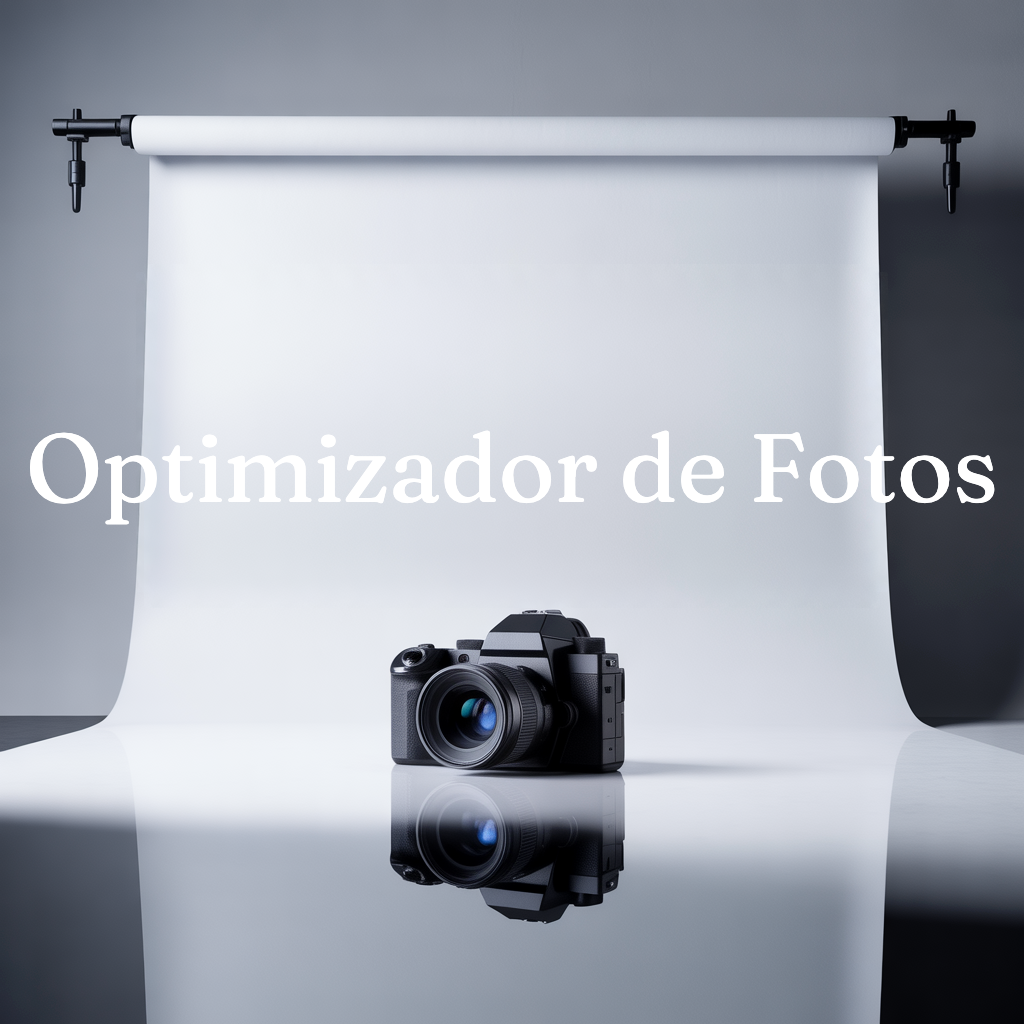
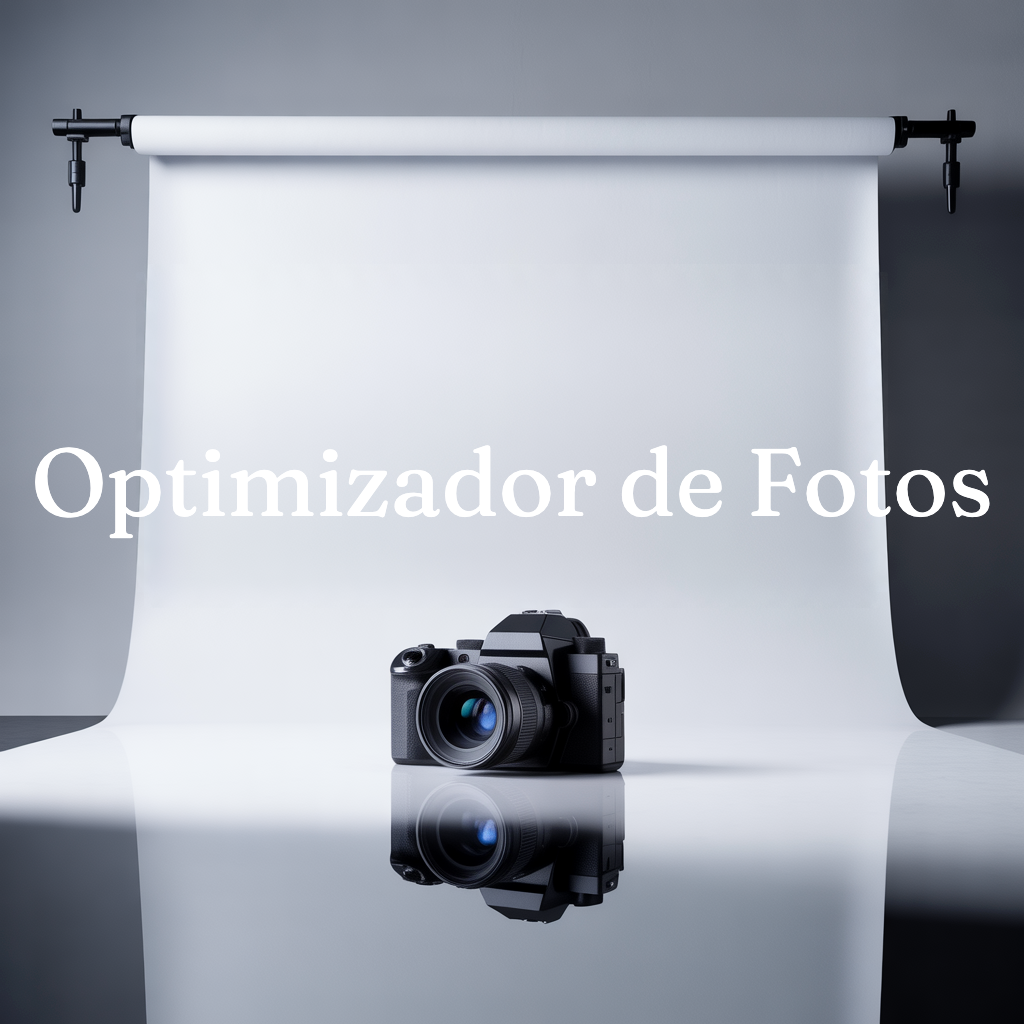
prompt colection

Changed region(s): [[0.0312, 0.4062, 0.9688, 0.5312]]

diff --git a/src/app/admin/pro-shot-now/prompts/page.tsx b/src/app/admin/pro-shot-now/prompts/page.tsx
@@ -1,0 +1,204 @@
+"use client";
+import React, { useEffect, useState } from "react";
+import { StorageError } from '@supabase/storage-js';
+import { supabase } from "../../../../../lib/supabaseClient";
+
+	interface Prompt {
+		id: string;
+		prompt: string;
+		tags?: string[];
+		created_by?: string;
+		created_at: string;
+		tokens_used?: number;
+		output_image?: string;
+		user?: string;
+		tela?: string;
+		estructura?: string;
+		[key: string]: any;
+	}
+
+export default function PromptVisualizer() {
+	const [prompts, setPrompts] = useState<Prompt[]>([]);
+	const [loading, setLoading] = useState(true);
+	const [error, setError] = useState<string | null>(null);
+
+			useEffect(() => {
+				const fetchPrompts = async () => {
+					setLoading(true);
+					setError(null);
+					// Fetch prompts
+					const { data, error } = await supabase
+						.from("image_prompts")
+						.select("prompt_id, created_at, prompt_text, tokens_used, output_image, user, tela, estructura")
+						.order("created_at", { ascending: false });
+					if (error) {
+						setError(error.message);
+						setPrompts([]);
+						setLoading(false);
+						return;
+					}
+							// Use output_image column directly for card backgrounds
+							setPrompts(
+								(data || []).map((row: any) => ({
+									id: row.prompt_id,
+									prompt: row.prompt_text,
+									tags: [],
+									created_by: row.user,
+									created_at: row.created_at,
+									tokens_used: row.tokens_used,
+									output_image: row.output_image,
+									user: row.user,
+									tela: row.tela,
+									estructura: row.estructura,
+								}))
+							);
+							setLoading(false);
+				};
+				fetchPrompts();
+			}, []);
+
+		const [debugInfo, setDebugInfo] = useState('');
+
+		// Filtering and sorting state
+		const [selectedTag, setSelectedTag] = useState<string>('');
+		const [selectedUser, setSelectedUser] = useState<string>('');
+		const [sortOrder, setSortOrder] = useState<'desc' | 'asc'>('desc');
+
+		// Get unique tags and users for dropdowns
+		const allTags = Array.from(new Set(prompts.flatMap(p => p.tags || []))).filter(Boolean);
+		const allUsers = Array.from(new Set(prompts.map(p => p.user || p.created_by).filter(Boolean)));
+
+		// Filter and sort prompts
+		const filteredPrompts = prompts
+			.filter(p =>
+				// Exclude prompts containing 'car' (case-insensitive)
+				!p.prompt?.toLowerCase().includes('car') &&
+				(selectedTag ? (p.tags || []).includes(selectedTag) : true) &&
+				(selectedUser ? (p.user === selectedUser || p.created_by === selectedUser) : true)
+			)
+			.sort((a, b) => {
+				if (sortOrder === 'desc') {
+					return new Date(b.created_at).getTime() - new Date(a.created_at).getTime();
+				} else {
+					return new Date(a.created_at).getTime() - new Date(b.created_at).getTime();
+				}
+			});
+		return (
+			<div
+				className="min-h-screen w-full flex flex-col items-center justify-start px-4 py-10"
+				style={{
+					backgroundImage: "url('/vine_2b.png')",
+					backgroundRepeat: "repeat",
+					backgroundSize: "400px 400px",
+					backgroundPosition: "center",
+				}}
+			>
+					<div className="w-full max-w-6xl mx-auto mb-8" style={{ minHeight: '280px' }}>
+						<img 
+							src="/admin/prompts_header.png" 
+							alt="Prompt Visualizer Header" 
+							className="w-full h-full object-cover"
+							style={{ maxHeight: '280px', minHeight: '280px', objectFit: 'cover' }}
+						/>
+					</div>
+				{loading && <div className="text-lg text-gray-700">Cargando prompts...</div>}
+				{error && (
+					<div className="text-red-600 font-semibold">
+						Error: {error}
+					</div>
+				)}
+				{/* Filter and sort controls - right aligned, improved styling */}
+				<div className="w-full max-w-6xl mx-auto flex justify-end mb-6">
+					<div className="flex flex-row gap-4 items-end">
+						<div className="flex flex-col">
+							<label className="text-xs font-semibold text-gray-700 mb-1" htmlFor="filter-tag">Tag</label>
+							<select
+								id="filter-tag"
+								className="border rounded px-2 py-1 text-sm min-w-[100px] text-black bg-transparent focus:bg-white"
+								style={{ borderColor: 'rgba(140,108,94,0.7)' }}
+								value={selectedTag}
+								onChange={e => setSelectedTag(e.target.value)}
+							>
+								<option value="">All</option>
+								{allTags.map(tag => (
+									<option key={tag} value={tag}>{tag}</option>
+								))}
+							</select>
+						</div>
+						<div className="flex flex-col">
+							<label className="text-xs font-semibold text-gray-700 mb-1" htmlFor="filter-user">User</label>
+							<select
+								id="filter-user"
+								className="border rounded px-2 py-1 text-sm min-w-[100px] text-black bg-transparent focus:bg-white"
+								style={{ borderColor: 'rgba(140,108,94,0.7)' }}
+								value={selectedUser}
+								onChange={e => setSelectedUser(e.target.value)}
+							>
+								<option value="">All</option>
+								{allUsers.map(user => (
+									<option key={user} value={user}>{user}</option>
+								))}
+							</select>
+						</div>
+						<div className="flex flex-col">
+							<label className="text-xs font-semibold text-gray-700 mb-1" htmlFor="sort-order">Sort</label>
+							<select
+								id="sort-order"
+								className="border rounded px-2 py-1 text-sm min-w-[120px] text-black bg-transparent focus:bg-white"
+								style={{ borderColor: 'rgba(140,108,94,0.7)' }}
+								value={sortOrder}
+								onChange={e => setSortOrder(e.target.value as 'desc' | 'asc')}
+							>
+								<option value="desc">Most Recent</option>
+								<option value="asc">Oldest First</option>
+							</select>
+						</div>
+					</div>
+				</div>
+
+				<div className="w-full max-w-6xl overflow-x-auto mt-0">
+					<table className="min-w-full border-separate border-spacing-y-2">
+						<thead className="sticky top-0 z-10" style={{ backgroundColor: '#738075' }}>
+							<tr>
+								<th className="px-4 py-3 text-left font-semibold uppercase border-b border-amber-300 text-white" style={{ fontSize: '0.9em' }}>Image</th>
+								<th className="px-4 py-3 text-left font-semibold uppercase border-b border-amber-300 text-white" style={{ fontSize: '0.9em' }}>Prompt</th>
+								<th className="px-4 py-3 text-left font-semibold uppercase border-b border-amber-300 text-white" style={{ fontSize: '0.9em' }}>Tags</th>
+								<th className="px-4 py-3 text-left font-semibold uppercase border-b border-amber-300 text-white" style={{ fontSize: '0.9em' }}>User</th>
+								<th className="px-4 py-3 text-left font-semibold uppercase border-b border-amber-300 text-white" style={{ fontSize: '0.9em' }}>Date</th>
+							</tr>
+						</thead>
+						<tbody>
+							{filteredPrompts.length === 0 && !loading && !error && (
+								<tr>
+									<td colSpan={5} className="text-center text-gray-500 text-lg py-12">No prompts found. Check your Supabase table or filters.</td>
+								</tr>
+							)}
+							{filteredPrompts.map((prompt) => (
+								<tr key={prompt.id} className="bg-white hover:bg-amber-50 transition-all border border-amber-100 rounded-lg shadow-sm">
+									<td className="px-2 py-2 align-middle">
+										{prompt.output_image ? (
+											<img src={prompt.output_image} alt="Prompt output" className="w-16 h-16 object-cover rounded shadow border border-amber-200" onError={e => { e.currentTarget.src = '/file.svg'; }} />
+										) : (
+											<span className="w-16 h-16 bg-gray-200 rounded flex items-center justify-center text-xs text-gray-400 border border-amber-100">No image</span>
+										)}
+									</td>
+									<td className="px-4 py-2 max-w-[400px] whitespace-pre-line text-gray-800 text-sm font-medium align-top">
+										{prompt.prompt}
+									</td>
+									<td className="px-4 py-2 align-top">
+										<div className="flex flex-wrap gap-1">
+											{prompt.tags && prompt.tags.length > 0 ? prompt.tags.map((tag: string) => (
+												<span key={tag} className="bg-amber-100 text-amber-800 px-2 py-1 rounded text-xs font-semibold">{tag}</span>
+											)) : <span className="text-gray-400 text-xs">—</span>}
+										</div>
+									</td>
+									<td className="px-4 py-2 align-top text-xs text-gray-700">{prompt.user || prompt.created_by || <span className="text-gray-400">—</span>}</td>
+									<td className="px-4 py-2 align-top text-xs text-gray-500">{new Date(prompt.created_at).toLocaleString()}</td>
+								</tr>
+							))}
+						</tbody>
+					</table>
+				</div>
+			</div>
+		);
+}

diff --git a/src/app/admin/pro-shot-now/page.tsx b/src/app/admin/pro-shot-now/page.tsx
@@ -13,17 +13,22 @@ export default function ProShotNowLanding() {
         backgroundPosition: 'center',
       }}
     >
-      <div className="w-full max-w-2xl mx-auto flex flex-row gap-12 justify-center items-center">
+      <div className="w-full max-w-5xl mx-auto flex flex-row gap-12 justify-center items-center">
         <Link href="/admin/pro-shot-now/optimizador" className="flex-1">
-          <div className="aspect-square w-64 h-64 bg-white rounded-2xl shadow-xl overflow-hidden hover:scale-105 hover:shadow-2xl transition-transform cursor-pointer border border-amber-200 flex items-center justify-center">
+          <div className="aspect-square w-[332px] h-[332px] bg-white rounded-2xl shadow-xl overflow-hidden hover:scale-105 hover:shadow-2xl transition-transform cursor-pointer border border-amber-200 flex items-center justify-center">
             <img src="/admin/optimizador1.png" alt="Optimizador de Fotos" className="object-cover w-full h-full" />
           </div>
         </Link>
-  <Link href="/admin/image-library" className="flex-1">
-          <div className="aspect-square w-64 h-64 bg-white rounded-2xl shadow-xl overflow-hidden hover:scale-105 hover:shadow-2xl transition-transform cursor-pointer border border-amber-200 flex items-center justify-center">
+        <Link href="/admin/image-library" className="flex-1">
+          <div className="aspect-square w-[332px] h-[332px] bg-white rounded-2xl shadow-xl overflow-hidden hover:scale-105 hover:shadow-2xl transition-transform cursor-pointer border border-amber-200 flex items-center justify-center">
             <img src="/admin/libreria1.png" alt="Libreria de Imagenes" className="object-cover w-full h-full" />
           </div>
         </Link>
+        <div className="flex-1">
+          <div className="aspect-square w-[332px] h-[332px] bg-white rounded-2xl shadow-xl overflow-hidden hover:scale-105 hover:shadow-2xl transition-transform cursor-pointer border border-amber-200 flex items-center justify-center">
+            <img src="/admin/prompts.png" alt="Prompts" className="object-cover w-full h-full" />
+          </div>
+        </div>
       </div>
     </div>
   );

diff --git a/src/components/AdminDashboard.tsx b/src/components/AdminDashboard.tsx
@@ -567,7 +567,7 @@ const MagicBento: React.FC<BentoProps> = ({
         router.push('/admin/catalogo');
         break;
       case 'Editar Fotos con KusamAI':
-        setShowImageEditor(true);
+        router.push('/admin/pro-shot-now');
         break;
       case 'Base de Datos Airtable':
         window.open('https://airtable.com/appRBsiKS1NXvQycF/tblD5ZvT8tj9Jw9LD/viwwYkpy2F9d1pgGJ?blocks=hide', '_blank');
